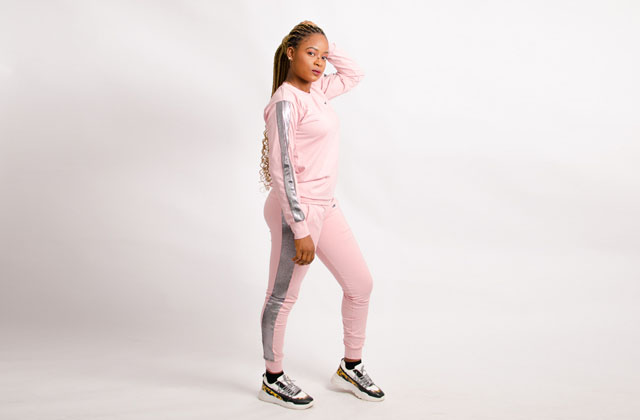
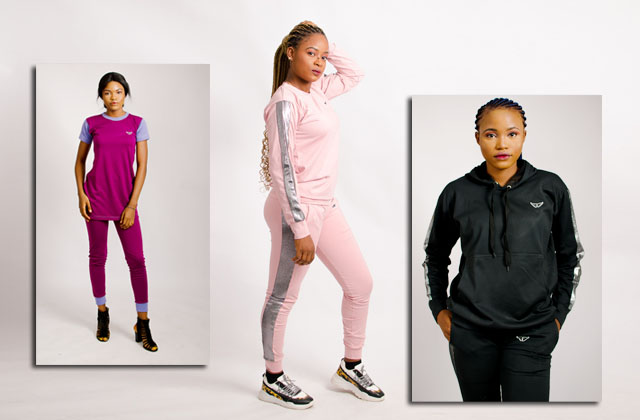
update
update

diff --git a/index.html b/index.html
@@ -173,7 +173,7 @@ Signature profile is a Afro- centric, clothing line and we tell the African stor
 			<div class="row py-xl-3">
 				<div class="col-lg-4 mt-lg-5">
 					<p class="title">Our Services</p>
-					<h3 class="heading mb-4">We produce all manner of</h3>
+					<h3 class="heading mb-4">We produce </h3>
 					<p>Premium (native with embroidery),<br />
 					Classic (,native without embroidery),<br />
 					Jeans Afrique by Sp (, all clothes with touch of jeans),<br />
@@ -247,8 +247,8 @@ Signature profile is a Afro- centric, clothing line and we tell the African stor
 	<!-- Gallery -->
 	<section class="gallery py-5" id="gallery">
 		<div class="container py-lg-5 py-3">
-			<p class="text-center">Our Fashion Stitches</p>
-			<h3 class="heading mb-4 text-center">Fashion Gallery</h3>
+		    <h3 class="heading mb-4 text-center">Classic</h3>
+			<p class="text-center">Fashion Gallery</p>			
 			<div class="row news-grids text-center">
 				<div class="col-md-4 col-sm-6 gal-img">
 					<a href="#gal1"><img src="images/1.jpg" alt="news image" class="img-fluid"></a>
@@ -270,7 +270,9 @@ Signature profile is a Afro- centric, clothing line and we tell the African stor
 		</div>
 		
 		<section class="gallery py-5" id="gallery">
-		<div class="container py-lg-5 py-3">			
+		<div class="container py-lg-5 py-3">
+           <h3 class="heading mb-4 text-center">Premium</h3>
+			<p class="text-center">Fashion Gallery</p>		
 			<div class="row news-grids text-center">
 				<div class="col-md-4 col-sm-6 gal-img">
 					<a href="#gal1"><img src="images/7.jpg" alt="news image" class="img-fluid"></a>
@@ -294,7 +296,9 @@ Signature profile is a Afro- centric, clothing line and we tell the African stor
 	</section>
 	
 	<section class="gallery py-5" id="gallery">
-		<div class="container py-lg-5 py-3">			
+		<div class="container py-lg-5 py-3">
+            <h3 class="heading mb-4 text-center">X-sporta</h3>
+			<p class="text-center">Fashion Gallery</p>			
 			<div class="row news-grids text-center">
 				<div class="col-md-4 col-sm-6 gal-img">
 					<a href="#gal1"><img src="images/13.jpg" alt="news image" class="img-fluid"></a>
@@ -318,7 +322,9 @@ Signature profile is a Afro- centric, clothing line and we tell the African stor
 	</section>
 	
 	<section class="gallery py-5" id="gallery">
-		<div class="container py-lg-5 py-3">			
+		<div class="container py-lg-5 py-3">
+            <h3 class="heading mb-4 text-center">Jean Afrique</h3>
+			<p class="text-center">Fashion Gallery</p>		
 			<div class="row news-grids text-center">
 				<div class="col-md-4 col-sm-6 gal-img">
 					<a href="#gal1"><img src="images/19.jpg" alt="news image" class="img-fluid"></a>
@@ -335,6 +341,58 @@ Signature profile is a Afro- centric, clothing line and we tell the African stor
 				<div class="col-md-4 col-sm-6 gal-img">
 					<a href="#gal5"><img src="images/23.jpg" alt="news image" class="img-fluid"></a>
 					<a href="#gal6"><img src="images/24.jpg" alt="news image" class="img-fluid"></a>
+				</div>
+			</div>
+		</div>
+		
+	</section>
+	
+	<section class="gallery py-5" id="gallery">
+		<div class="container py-lg-5 py-3">
+            <h3 class="heading mb-4 text-center">Sigili</h3>
+			<p class="text-center">Fashion Gallery</p>		
+			<div class="row news-grids text-center">
+				<div class="col-md-4 col-sm-6 gal-img">
+					<a href="#gal1"><img src="images/25.jpg" alt="news image" class="img-fluid"></a>
+					<a href="#gal2"><img src="images/26.jpg" alt="news image" class="img-fluid"></a>
+
+				</div>
+
+				<div class="col-md-4 col-sm-6 gal-img">
+					<a href="#gal3"><img src="images/27.jpg" alt="news image" class="img-fluid"></a>
+
+					<a href="#gal4"><img src="images/28.jpg" alt="news image" class="img-fluid"></a>
+				</div>
+
+				<div class="col-md-4 col-sm-6 gal-img">
+					<a href="#gal5"><img src="images/29.jpg" alt="news image" class="img-fluid"></a>
+					<a href="#gal6"><img src="images/30.jpg" alt="news image" class="img-fluid"></a>
+				</div>
+			</div>
+		</div>
+		
+	</section>
+	
+	<section class="gallery py-5" id="gallery">
+		<div class="container py-lg-5 py-3">
+            <h3 class="heading mb-4 text-center">Workman Apparel</h3>
+			<p class="text-center">Fashion Gallery</p>		
+			<div class="row news-grids text-center">
+				<div class="col-md-4 col-sm-6 gal-img">
+					<a href="#gal1"><img src="images/31.jpg" alt="news image" class="img-fluid"></a>
+					<a href="#gal2"><img src="images/32.jpg" alt="news image" class="img-fluid"></a>
+
+				</div>
+
+				<div class="col-md-4 col-sm-6 gal-img">
+					<a href="#gal3"><img src="images/33.jpg" alt="news image" class="img-fluid"></a>
+
+					<a href="#gal4"><img src="images/34.jpg" alt="news image" class="img-fluid"></a>
+				</div>
+
+				<div class="col-md-4 col-sm-6 gal-img">
+					<a href="#gal5"><img src="images/35.jpg" alt="news image" class="img-fluid"></a>
+					<a href="#gal6"><img src="images/36.jpg" alt="news image" class="img-fluid"></a>
 				</div>
 			</div>
 		</div>
